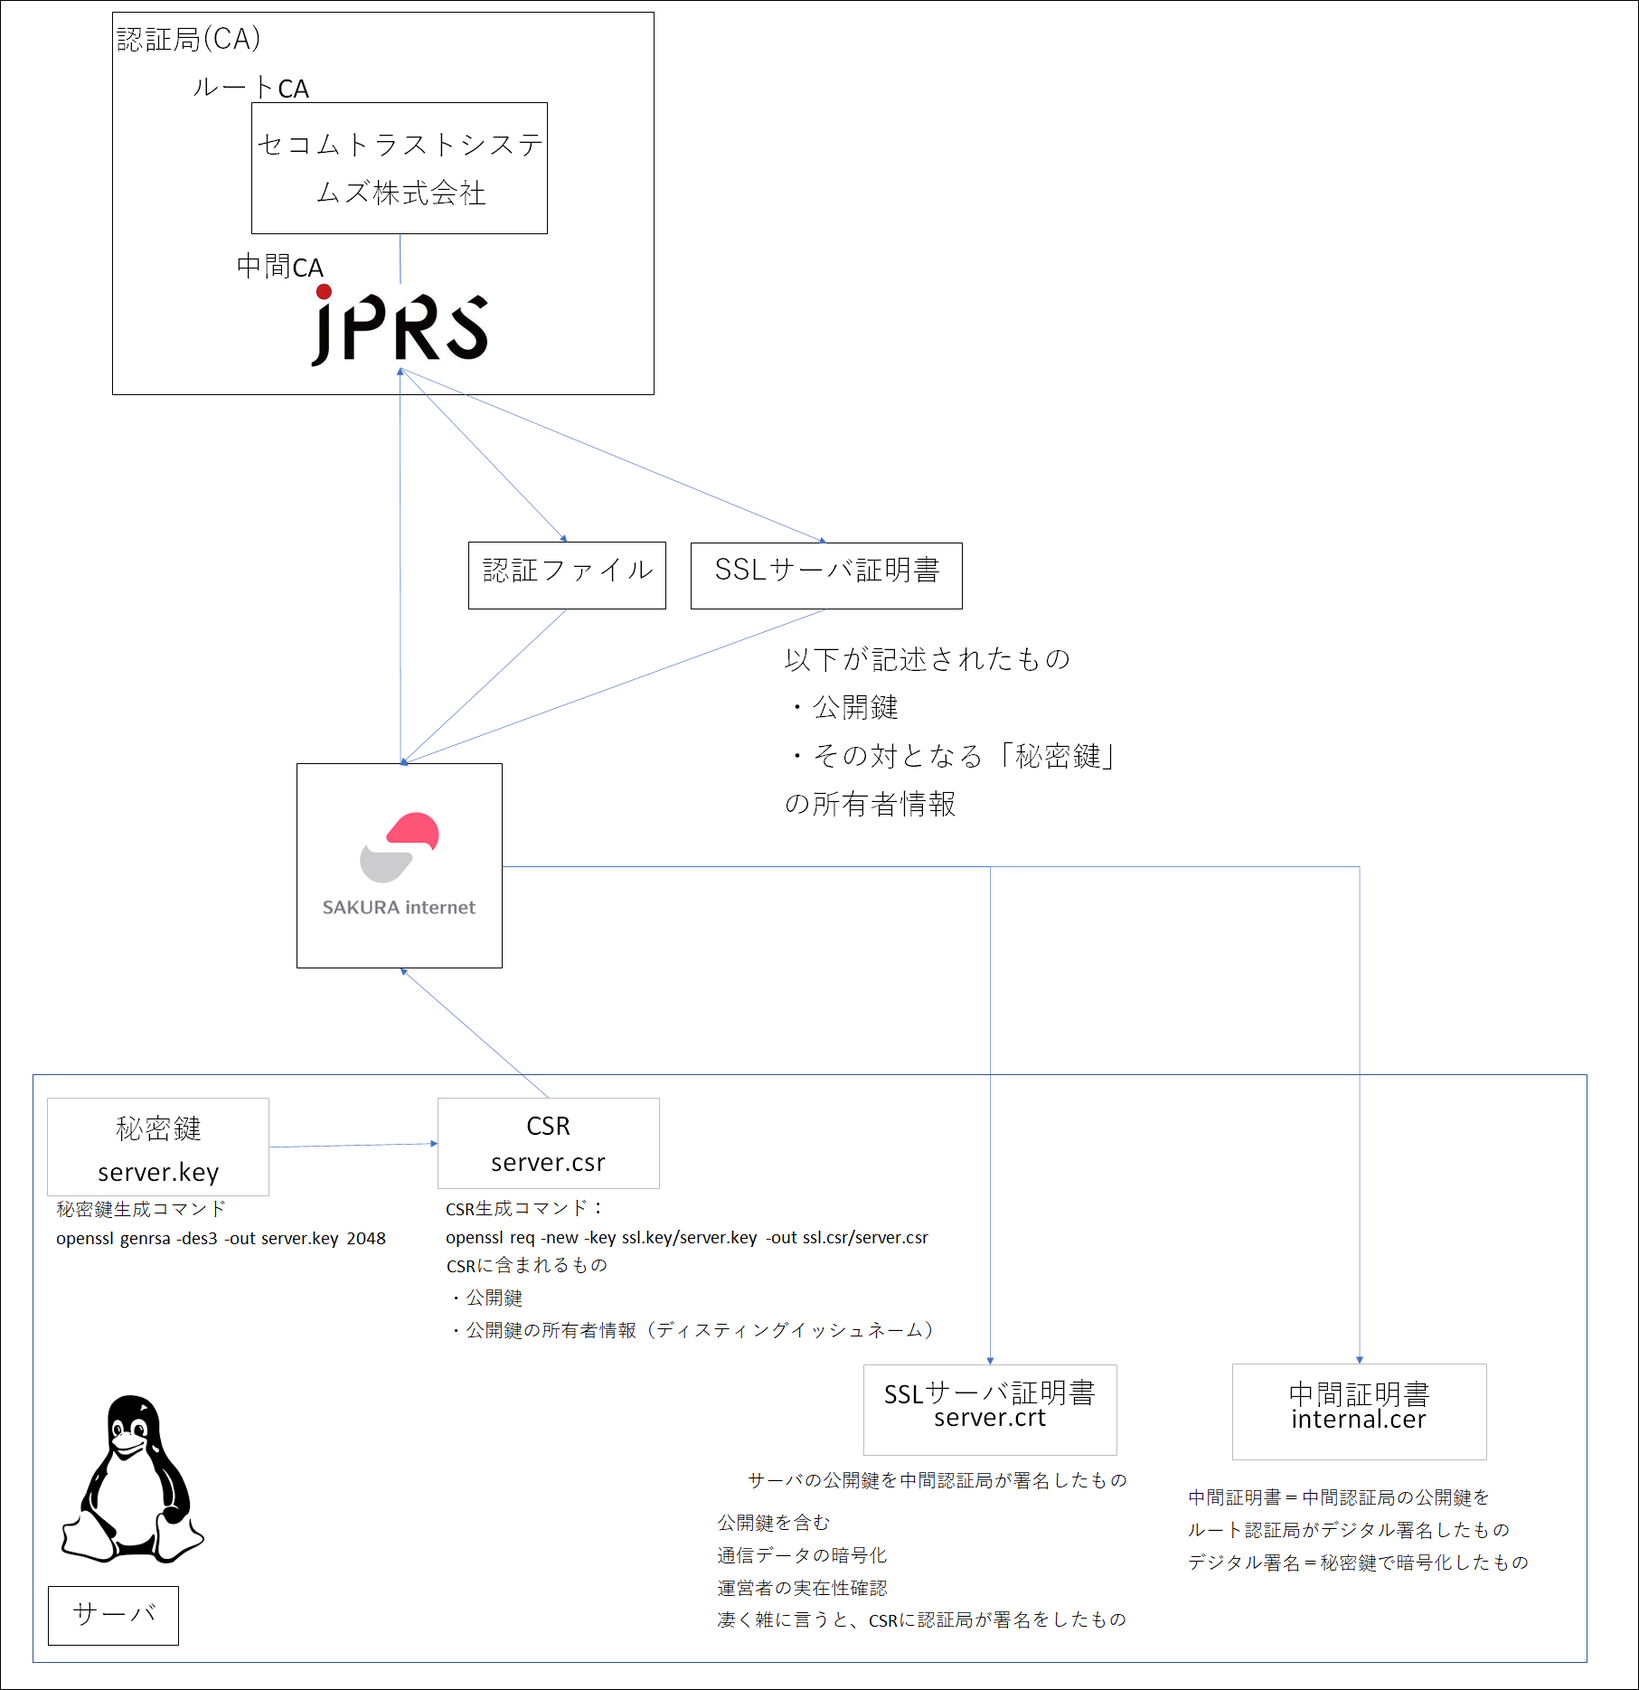
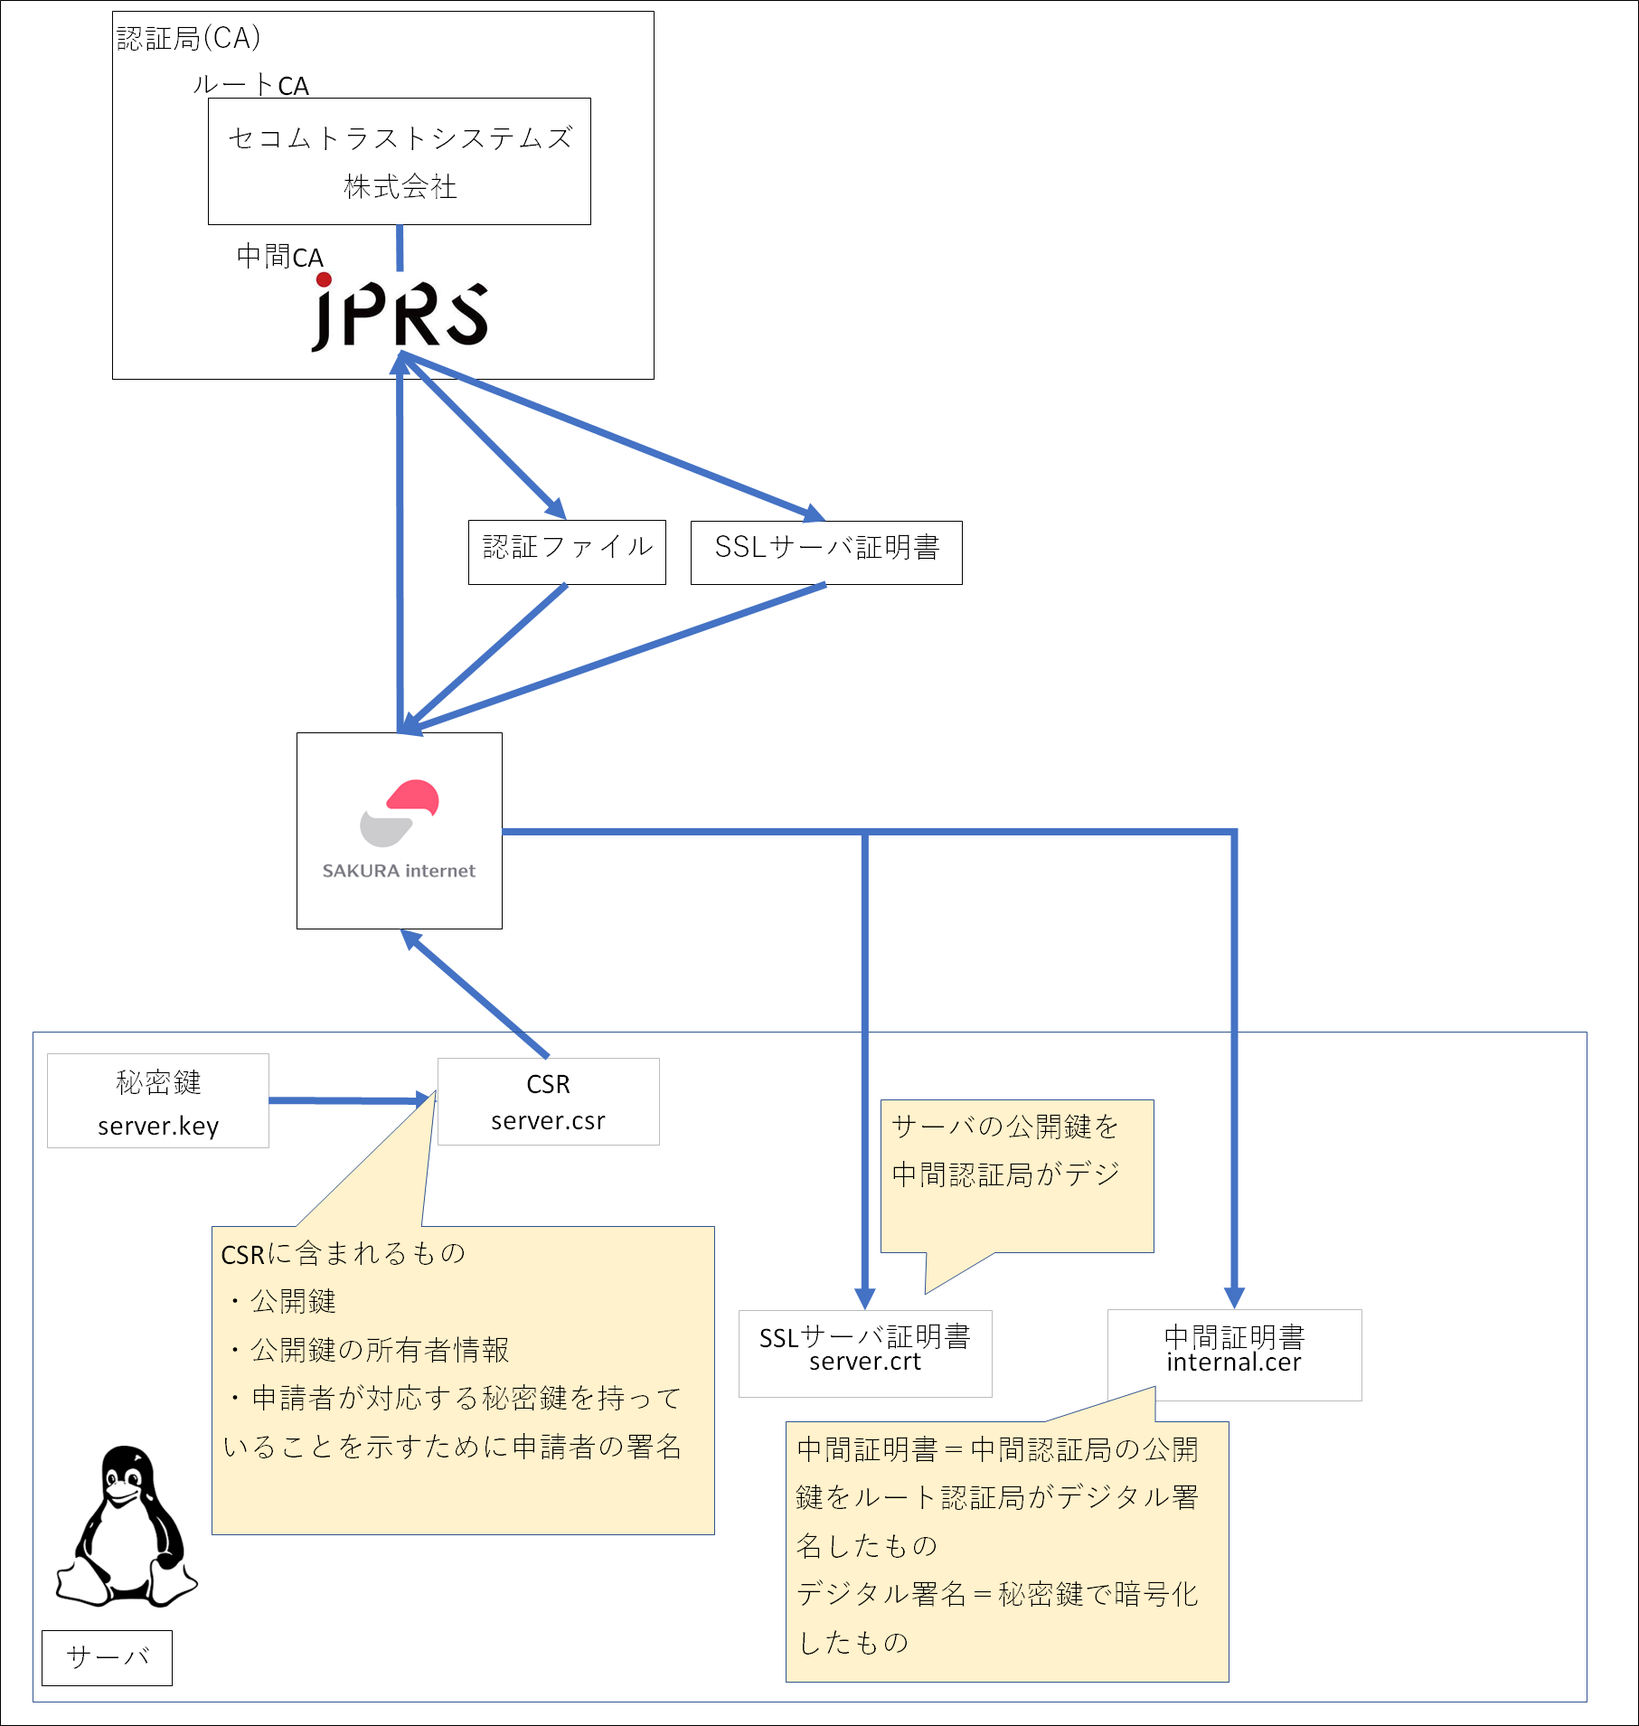
2週間やりたいことの記事修正

diff --git a/contents/bymyself/tohttps/tohttps.html b/contents/bymyself/tohttps/tohttps.html
@@ -223,16 +223,22 @@
 
       <p>
         この秘密鍵からCSRというものを生成し、CSRを認証局(CA)に提示することでSSLサーバ証明書を発行してもらいます。<br>
-        CSRとは「Certificate Signing Request」の略で、認証局に対し、SSLサーバ証明書への署名を申請するためのものです。CSR には「公開鍵」とその所有者情報、及び申請者が対応する秘密鍵を持っていることを示すために申請者の署名が記載されています。<br>
-        <a href="https://xtrust.jp/support/faq/faq08/a001/" target="_blank">↑この説明はリンク先から引用</a><br>
+        以下、引用<br>
+        『CSRとは「Certificate Signing Request」の略で、認証局に対し、SSLサーバ証明書への署名を申請するためのものです。CSR には「公開鍵」とその所有者情報、及び申請者が対応する秘密鍵を持っていることを示すために申請者の署名が記載されています。』<br>
+        引用終わり。<a href="https://xtrust.jp/support/faq/faq08/a001/" target="_blank">引用元はこちら</a>。<br>
+        所有者情報は Distinguished Name (DN)と呼ばれたりもします。<br>
 
         <br>
         CSR生成コマンドは以下<br>
       </p>
 
-      <div class="codetitle">
+      <div class="code">
         openssl req -new -key ssl.key/server.key -out ssl.csr/server.csr<br>
       </div>
+      <br>
+      <p>
+        実行すると以下のように、パスフレーズや公開鍵の所有者情報の入力を求められます。<br>
+      </p>
       <div class="code">
         Enter pass phrase for ssl.key/server.key:<br>
         You are about to be asked to enter information that will be incorporated<br>
@@ -244,11 +250,11 @@
         -----<br>
         Country Name (2 letter code) [XX]:JP<br>
         State or Province Name (full name) []:Tokyo<br>
-        Locality Name (eg, city) [Default City]:Adachi-ku<br>
-        Organization Name (eg, company) [Default Company Ltd]:sagamax<br>
+        Locality Name (eg, city) [Default City]:XXXXXX-ku<br>
+        Organization Name (eg, company) [Default Company Ltd]:xxxxxx<br>
         Organizational Unit Name (eg, section) []:<br>
         Common Name (eg, your name or your server's hostname) []:xxxxxx.xxx（自分のhostnameを入力）<br>
-        Email Address []:flo_pekoe_psyche@yahoo.co.jp<br>
+        Email Address []:xxxxxx@yyyy<br>
         
         Please enter the following 'extra' attributes<br>
         to be sent with your certificate request<br>
@@ -258,7 +264,7 @@
 
       <br>
       <p>
-        ここで生成したserver.csrを使って、<a href="https://ssl.sakura.ad.jp/?utm_source=vps&utm_medium=cp&_gl=1*k2y12d*_gcl_aw*R0NMLjE2NTY2NDIyMjQuQ2p3S0NBandrX1dWQmhCWkVpd0FVSFFDbVVlWlM5VDM3amJCeDloVlp1ZGdiT2Zjdmo1UTdxa0VWaXl0ZnF0Z2tWcktDeW80QVhsZjN4b0NSa2dRQXZEX0J3RQ..&_ga=2.78727837.806813287.1656562159-1386032874.1655857253&_gac=1.90852968.1656642224.CjwKCAjwk_WVBhBZEiwAUHQCmUeZS9T37jbBx9hVZudgbOfcvj5Q7qkEViytfqtgkVrKCyo4AXlf3xoCRkgQAvD_BwE" target="_blank">リンク先でSSL証明書を申し込む</a>。特にこだわりはないので一番安いやつにした。リンク先を見ると<font color="yellow">ドメイン認証型</font>という単語があるが、これについては以下のサイトがわかりやすいと思います。<br>
+        これでserver.csrが生成される。これを使って、<a href="https://ssl.sakura.ad.jp/?utm_source=vps&utm_medium=cp&_gl=1*k2y12d*_gcl_aw*R0NMLjE2NTY2NDIyMjQuQ2p3S0NBandrX1dWQmhCWkVpd0FVSFFDbVVlWlM5VDM3amJCeDloVlp1ZGdiT2Zjdmo1UTdxa0VWaXl0ZnF0Z2tWcktDeW80QVhsZjN4b0NSa2dRQXZEX0J3RQ..&_ga=2.78727837.806813287.1656562159-1386032874.1655857253&_gac=1.90852968.1656642224.CjwKCAjwk_WVBhBZEiwAUHQCmUeZS9T37jbBx9hVZudgbOfcvj5Q7qkEViytfqtgkVrKCyo4AXlf3xoCRkgQAvD_BwE" target="_blank">リンク先でSSL証明書を申し込む</a>。特にこだわりはないので一番安いやつにした。リンク先を見ると<font color="yellow">ドメイン認証型</font>という単語があるが、これについては以下のサイトがわかりやすいと思います。<br>
       </p>
       <ul>
         <li><a href="https://qeee.jp/magazine/articles/4900" target="_blank">【比較8選】SSL証明書の選び方とおすすめ証明書を徹底解説！</a></li>
@@ -283,37 +289,19 @@
       <br>
       <h4 class="title">server.crt, internal.cer</h4>
       <p>
-        無事認証されたら「SSLサーバ証明書発行のお知らせ」というメールが届きます。サーバが存在するかを確認するため数分、時間がかかります。私の場合は30分ぐらいでした。<br>
-        メールが来るとサーバ証明書(server.crt)と中間証明書(internal.cer)がダウンロードできるようになります。crtファイルとは、SSL証明書会社がCSRファイルに情報を付加して秘密鍵で暗号化したものです。<br>
+        無事認証されたら「SSLサーバ証明書発行のお知らせ」というメールが届きます。SSLサーバ証明書とは、サーバの公開鍵を中間認証局が署名したものです。中間認証局自身が所有している中間証明書の秘密鍵でSSLサーバ証明書（以下、サーバ証明書）に署名することで、サーバ証明書の信頼性を担保しています。サーバが存在するかを確認するため、メールが届くまでには数分、時間がかかります。私の場合は30分ぐらいでした。メールが来るとサーバ証明書(server.crt)と中間証明書(internal.cer)がダウンロードできるようになります。<br>
         <img src="img/dl_sert.png"><br>
 
         <br>
         <img src="img/server.png"><br>
 
         <br>
-        サーバにサーバー証明書(server.crt)と中間証明書(internal.cer)を配置します。中間証明書は、SSLサーバ証明書を発行する認証局が自身の正当性を証明するためのものです。<br>
+        サーバにサーバー証明書(server.crt)と中間証明書(internal.cer)を配置します。今回は以下のディレクトリに配置しています。<br>
       </p>
       <div class="code">
         /etc/httpd/conf/ssl.crt/internal.cer<br>
         /etc/httpd/conf/ssl.crt/server.crt<br>
       </div>
-
-      <br>
-      中間証明<br>
-      <ul>
-        <li><a href="https://e-words.jp/w/%E4%B8%AD%E9%96%93CA.html" target="_blank">中間CA 【intermediate certificate authority】 中間認証局</a></li>
-        <li><a href="https://www.f5.com/ja_jp/services/resources/glossary/intermediate-certificate" target="_blank">中間証明書</a></li>
-        <li><a href="https://www.itra.co.jp/webmedia/points_of_ssl_ca_certification.html" target="_blank">中間証明書とは？SSL中間CA証明書の必要性やエラー・確認方法を紹介</a></li>
-        <li><a href="https://ssl.sakura.ad.jp/column/difference-in-ssl/" target="_blank">サーバー証明書／中間CA証明書／ルート証明書の違いとは？</a></li>
-      </ul>
-      CSR<br>
-      <ul>
-        <li><a href="https://xtrust.jp/support/faq/faq08/a001/" target="_blank">申込時に用意しなくてはいけないCSRファイルとは何でしょうか？</a></li>
-        <li><a href="https://knowledge.digicert.com/ja/jp/solution/SOT0026.html" target="_blank">[CertCentral]CSR生成について</a></li>
-        <li><a href="https://jp.globalsign.com/support/cert-management/distinguish-name.html" target="_blank">ディスティングイッシュネームとは何ですか</a></li>
-        <li><a href="https://jp.globalsign.com/support/ssl/certificates/about-csr.html" target="_blank">CSRについて教えてください</a></li>
-        <li><a href="https://install-memo.hatenadiary.org/entry/20110906/1315291837" target="_blank">SSL証明書のKEYファイル・CSRファイル・CRTファイルのチェック方法</a></li>
-      </ul>
 
       <br>
       <p>
@@ -339,21 +327,47 @@
         <img src="img/key_chain.png"><br>
 
         <br>
-        ここまでの申請の流れを図にしたものが以下の図です。<br>
+        ここまでの申請の流れを図にしたものが以下の図です。ルートCAは中間CAの正当性を担保するための機関です。<br>
         <img src="img/regist_ssl.png"><br>
+      </p>
 
-        <!--
-        <br><br>
-        サーバ証明書、中間証明書、秘密鍵を使ってSSL通信が実現されている。それぞれどのように使用されているのかを図で整理したものが以下。<br>
+      <br>
+      参考<br>
+      中間証明<br>
+      <ul>
+        <li><a href="https://e-words.jp/w/%E4%B8%AD%E9%96%93CA.html" target="_blank">中間CA 【intermediate certificate authority】 中間認証局</a></li>
+        <li><a href="https://www.f5.com/ja_jp/services/resources/glossary/intermediate-certificate" target="_blank">中間証明書</a></li>
+        <li><a href="https://www.itra.co.jp/webmedia/points_of_ssl_ca_certification.html" target="_blank">中間証明書とは？SSL中間CA証明書の必要性やエラー・確認方法を紹介</a></li>
+        <li><a href="https://ssl.sakura.ad.jp/column/difference-in-ssl/" target="_blank">サーバー証明書／中間CA証明書／ルート証明書の違いとは？</a></li>
+        <li><a href="https://qiita.com/miyuki_samitani/items/35941e2389b8f62625ad" target="_blank">SSL証明書のルート認証局・中間認証局 とは？</a></li>
+      </ul>
+      CSR<br>
+      <ul>
+        <li><a href="https://xtrust.jp/support/faq/faq08/a001/" target="_blank">申込時に用意しなくてはいけないCSRファイルとは何でしょうか？</a></li>
+        <li><a href="https://knowledge.digicert.com/ja/jp/solution/SOT0026.html" target="_blank">[CertCentral]CSR生成について</a></li>
+        <li><a href="https://jp.globalsign.com/support/cert-management/distinguish-name.html" target="_blank">ディスティングイッシュネームとは何ですか</a></li>
+        <li><a href="https://jp.globalsign.com/support/ssl/certificates/about-csr.html" target="_blank">CSRについて教えてください</a></li>
+        <li><a href="https://install-memo.hatenadiary.org/entry/20110906/1315291837" target="_blank">SSL証明書のKEYファイル・CSRファイル・CRTファイルのチェック方法</a></li>
+        <li><a href="https://help.sakura.ad.jp/ssl/2327/" target="_blank">CSRを作成したい</a></li>
+      </ul>
+      全般<br>
+      <ul>
+        <li><a href="https://qiita.com/yoshizaki_91/items/e6f39a5bfb99900b44b2" target="_blank">さくらVPSにSSL証明書を導入しHTTPS通信の構築</a></li>
+      </ul>
+  
+  
+      <br><br>
+      <h4 class="title">④SSL通信のシーケンスとサーバ証明書の用途</h4>
+      <p>
+        上記のサーバ証明書を使ってSSL通信が実現されている。ブラウザから https でサーバにアクセスする際のシーケンスは以下の図のようになっています。<br>
 
         <br>
         <img src="img/https_connection.png"><br>
 
         <br>
-        「共通鍵の元になるデータの送信」は、共通鍵を生成するためのもの。共通鍵そのものを送るのではなく、共通鍵を生成するための元ネタを送ることで鍵漏洩のリスクを軽減するためのもので、 DH（Diffie-Hellman）法というやり方で共通鍵を生成する。DH法のアルゴリズム自体はややこしいので省略するが、ざっくり言うと、クライアントとサーバがそれぞれ生成した別々の乱数をお互いに送り、それをもとに共通の値を生成してそれを共通鍵暗号方式の鍵として使用する方式のこと。<br>
-        デジタル署名の技術を使って公開鍵を共有する。<br>
+        暗号化の方式を決定した後、サーバからクライアントに対してSSLサーバ証明書を提示します。クライアントは提示されたSSLサーバ証明書を検証します。検証にはルート認証局が発行する「ルート証明書」が必要です。ルート証明書はパソコンやスマートフォンなどの端末内に保存されているため、これを使って検証します。サーバーから送られてくる証明書が、ルート証明書に関連付けられた証明書（正規の中間認証局が発行した証明書）であるかを検証します。<br>
 
-        クライアント認証はオプションです。/etc/httpd/conf.d/ssl.conf は以下の通りデフォルトはコメントアウトされているので、自分で設定を変えない限りクライアント認証は実施されません。<br>
+        クライアント認証はオプションです。私の環境では、 /etc/httpd/conf.d/ssl.conf は以下の通りコメントアウトされているので、設定を変えない限りクライアント認証は実施されません。<br>
       </p>
       <div class="code">
         #   Client Authentication (Type):<br>
@@ -364,19 +378,13 @@
         #SSLVerifyClient require<br>
         #SSLVerifyDepth  10<br>
       </div>
-
       <p>
         <br>
-        認証局のデジタル署名付きの公開鍵を公開鍵証明書といい、「証明書」という単語が出てきたら大抵がこの公開鍵証明書を指します。<br>
-        <a href="https://microsoftou.com/role-of-ca/" target="_blank">ここから引用</a><br>
-
-        <br>
-        認証局が発行する「ルート証明書」は、パソコンやスマートフォンなどの端末内に保存されており、サーバーから送られてくる証明書（サーバー証明書と中間CA証明書）が、ルート証明書に関連付けられた証明書（認証局が発行した証明書）であるかを検証します。<br>
-        <a href="https://ssl.sakura.ad.jp/column/ssl/" target="_blank">ここから引用</a>
-      -->
+        「共通鍵の元になるデータの送信」は、共通鍵を生成するためのもの。共通鍵そのものを送るのではなく、共通鍵を生成するための元ネタを送ることで鍵漏洩のリスクを軽減するためのもので、 DH（Diffie-Hellman）法というやり方で共通鍵を生成する。DH法のアルゴリズム自体はややこしいので省略するが、ざっくり言うと、クライアントとサーバがそれぞれ生成した別々の乱数をお互いに送り、それをもとに共通の値を生成してそれを共通鍵暗号方式の鍵として使用する方式のこと。<br>
+        このようにして算出した共通鍵を使用して、暗号化通信が行われます。<br>
       </p>
 
-      <br><br>
+      <br>
       参考<br>
       デジタル署名<br>
       <ul>
@@ -422,19 +430,8 @@
         <li><a href="https://ssl.sakura.ad.jp/column/ssl/" target="_blank">SSLって何？意味や仕組みをわかりやすく解説！</a></li>
       </ul>
 
-      <br>
-      参考<br>
-      <ul>
-        <li><a href="https://www.javadrive.jp/apache/log/index1.html" target="_blank">CustomLogディレクティブ：ログファイルの名前と使用するフォーマットを選択する</a></li>
-        <li><a href="https://httpd.apache.org/docs/2.4/ja/mod/mod_log_config.html" target="_blank">Apache モジュール mod_log_config</a></li>
-        <li><a href="https://hyhyhy.muragon.com/entry/19.htmlhttps://hyhyhy.muragon.com/entry/19.html" target="_blank">ApacheのupdateによるSSLの設定変更</a></li>
-        <li><a href="http://hideaki-momose.blogspot.com/2014/04/apache_9.html" target="_blank">apache インストール/設定 メモ</a></li>
-        <li><a href="https://qiita.com/yoshizaki_91/items/e6f39a5bfb99900b44b2" target="_blank">さくらVPSにSSL証明書を導入しHTTPS通信の構築</a></li>
-        <li><a href="https://help.sakura.ad.jp/ssl/2327/" target="_blank">CSRを作成したい</a></li>
-      </ul>
-
       <br><br>
-      <h4 class="title">④httpdを再起動するとエラー</h4>
+      <h4 class="title">⑤httpdを再起動するとエラー</h4>
       <p>
         「service httpd restart」 で httpd を再起動すると、以下のエラーが発生。<br>
       </p>
